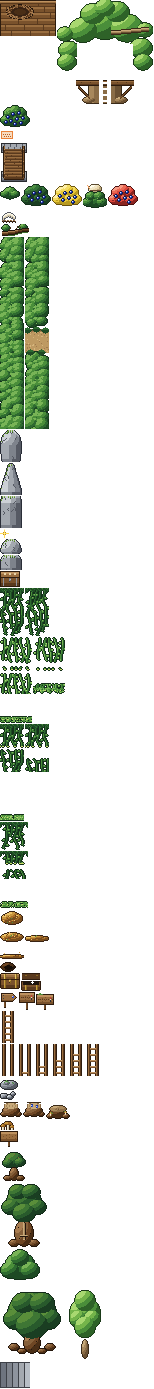
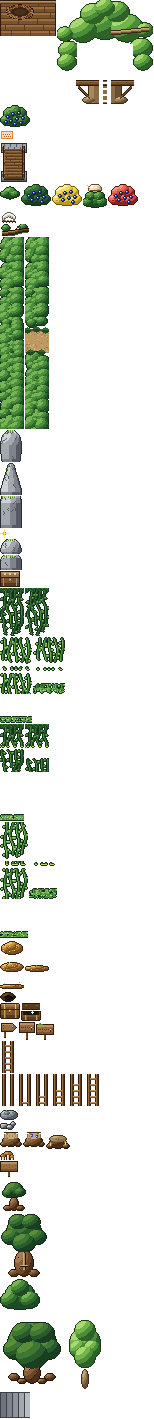
Skogsbrynets småsaker: den ljusa lilla lianen, gången och ekorrens gren (18, F6, 0.42.0)
Stils nya liten_lian* i gångens grön (28 × 38) med två huggbilder,
liangången 8 px längre ned (y 48, h 40) och ekorrens gren i snårets
kant (y 80), enligt Stils rapport och beslut 59.6.

Claude-Session: https://claude.ai/code/session_016sbnJUxb6ZmeQvzXarWRFc

diff --git a/tests/webb/steg.spec.js b/tests/webb/steg.spec.js
@@ -1125,6 +1125,8 @@ test('den lilla lianen: SVÄRD ur minnet, sedan hugger han den, och den är bort
   expect(await page.evaluate(() => window.__ORDSTAVEN.rumsobjekt())).toContain('liten_lian');
   await tryckNara(page, 'liten_lian');
   await expect(page.locator('#handknapp')).toBeVisible({ timeout: 8000 });
+  // Stils ljusa lian i gångens grön (28 × 38) hänger ned ur snåret framför stubben (18, F6)
+  await page.screenshot({ path: 'test-results/skogsbrynet-liten-lian.png' });
   await page.keyboard.press('Space');
   await expect(page.locator('#plattan .formel-ruta')).toBeVisible({ timeout: 8000 });
   for (const b of 'SVÄRD') await bricka(page, b).click();

diff --git a/docs/arkitektur.md b/docs/arkitektur.md
@@ -835,3 +835,9 @@ Ersätter det i §53 som gäller hur lappen används. Logiken i `karna/uppdrag.j
 - **`ljud.spela(namn, { fart, om })`:** först de inspelade lätena (ungen, Herr Skata), sedan Stils fil (`EFFEKT_FOR` byter gråboxens namn och innehållets ljud-id mot Stils: `allmant` → `kruka`, `fagel` → `vingflax`, `fest` → `fest_mellan`, `apa_gnaller` → `apa_gnall`, `ekorre_not` → `kras`, `mage_kurrar` → `mage`), och syntesen bara när en fil saknas eller inte är avkodad än. Alla filer avkodas en gång när ljudet startar. Ljudeffekterna har en egen nivå (`EFFEKT_NIVA` 0,5), och musiken ligger ca 8 dB under (avvägt utan öron, ska provlyssnas). **Signaturljuden** (`stampel`, `ordkraft`, `dunk`, `baron`) spelas alltid med fart 1. Rösternas pip stannar i syntesen.
 - **Där spelet väljer ljud efter 10c:** brickorna och namnets tangenter `bricka_1–8` efter bokstavens plats i ordet, pinnstegen `pinne` med farten 1,0–1,25, festerna `fest_mellan` (reaktioner, grad, utseende, Dinoboken, passets slut) och `fest_stor` (kartbitarna), `stampel` för stämpeln, `ordkraft` för ordkraftens ljus, `radio` när Farfar talar genom radion, och introts `start` vid första trycket och `titel_bokstav` per bokstav i ORDSTAVEN (farten 1,0–1,4, i stället för syntesens klang i 0.37.0).
 - **Inte kopplade än** (ljuden finns): papperet när läsplattan öppnas, penndraget vid en bock, dörrarna, locken, stegen och de händelser i prologen och kapitel 1 som hittills var tysta (tut, kastrull, badanka och de andra). Mammas rop väntar på ett beslut.
+
+## 74. Skogsbrynets tre småsaker (0.42.0, F6, Teknik 18, beslut 59.6)
+- **Den lilla lianen** vid stubben har Stils nya bilder i gångens ljusa grön (`liten_lian`, `_hugg_01`, `_hugg_02` och `_kvar`, 28 × 38): den hänger ned ur snåret framför stubben, och hugget har två bilder som gångens (`bild_hugg` = `liten_lian_hugg_01,liten_lian_hugg_02`). Rutan i kartan (344, 116, 28 × 10) står kvar, eftersom bilden ritas från nederkantens mitt. Bara skogens atlas och en egenskap i kartan ändras.
+- **Liangången** (`lianer`) börjar 8 pixlar längre ned (y 48, h 40), så att den första lianen inte sticker upp ovanför snåret in på stigen mot gläntan.
+- **Ekorren på grenen** (`ekorre_gren`) sitter 10 pixlar högre (y 80), så att grenen går in i snårets kant och inte ligger på gräset.
+- Kartkontrollen går igenom med ändringarna (ingen stig över ett hinder, och varje mål går att nå).

diff --git a/docs/versioner.md b/docs/versioner.md
@@ -2,6 +2,7 @@
 
 | Version | Datum | Vad |
 |---|---|---|
+| 0.42.0 | 2026-11-08 | **Skogsbrynets småsaker (18).** Den lilla lianen vid stubben har samma ljusa grön som lianerna i gången, hänger ned ur snåret och huggs i två bilder som de. Liangången börjar lite längre ned, så att ingen lian hänger i luften ovanför snåret, och ekorrens gren går in i snårets kant i stället för att ligga på gräset. |
 | 0.41.0 | 2026-11-08 | **Stils ljudeffekter (F5).** 80 egna ljud ersätter gråboxens syntes: brickorna stiger i ton för varje bokstav, pinnstegen klickar fram, festerna är olika för en grad och en kartbit, och stämpeln, ordkraften, radion och introts första tryck och bokstäver har egna ljud. Djur och saker låter som Stil har gjort dem (ugglorna, hackspetten, ägget, magen, krukorna). Rösternas pip och ungens och Herr Skatas inspelade läten är som förut. |
 | 0.40.0 | 2026-11-08 | **INSTÄLLNINGAR (25).** Under LJUD OCH RÖST går det att välja om rösten läser **långsamt eller lagom**, och att ställa **röstens volym** i tio steg. Båda hörs direkt. **SKÄRM** har en knapp för helskärm. **SPARFIL** visar när sparfilen senast hämtades, eftersom Safari kan rensa det som sparas. **OM SPELET** har versionen, de medverkande, licenserna och en rad om att inget skickas någonstans. **Testläget** (Hoppa till scen och objektens namn) finns bara med `?test`. |
 | 0.39.0 | 2026-11-08 | **Musiken (F5).** Stils två slingor spelar utan skarv: menyns i introt, på startskärmen, i pausmenyn och i INSTÄLLNINGAR, och spelets inne i spelet, med en mjuk övergång vid byten. **Musiken sänks ca 12 dB när något läses**, alltså när rösten talar eller läsplattan eller pratrutan är öppen. Den tystnar när han slutar för idag och när fliken är dold. Ljudeffekterna kommer när Stil har levererat dem. |
